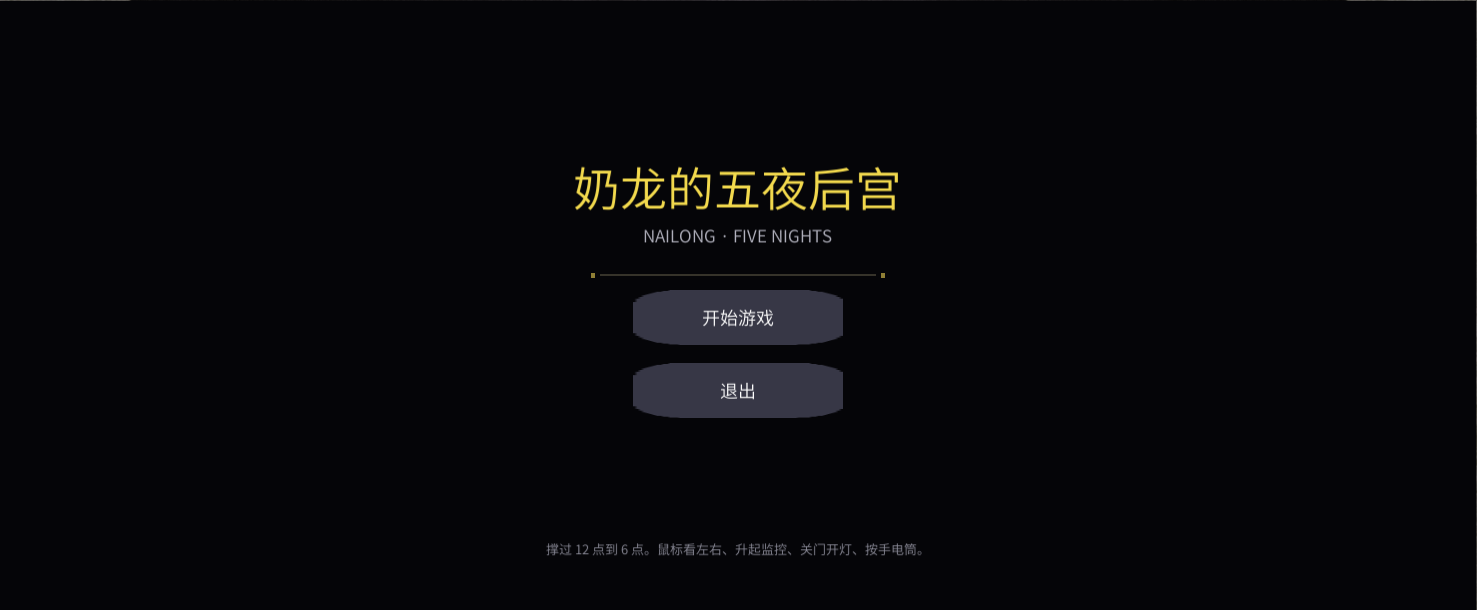
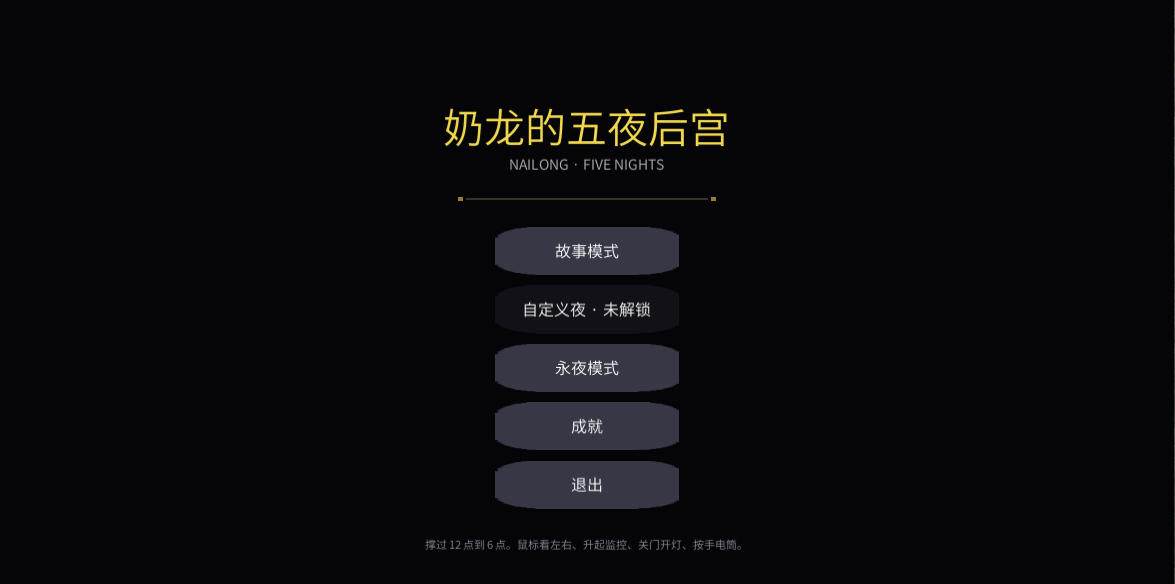
docs: 重写 README —— 故事模式 / 自定义夜 / 永夜 / 成就四模式
- 按当前代码重写：五种标题按钮、四种模式、永夜模式的固定结算与动静抬难度、
  Esc 暂停与存档续跑、9 条成就及其解锁条件、自定义夜 0~20
- 测试数更新到 123（新数目含自定义夜与成就的 12 个用例）
- 补「存档在哪儿」一节（PlayerPrefs 六个键）
- 补两条无头命令：-runTests 与 -playSmoke
- 换掉三张截图：标题页（五按钮）、永夜 HUD、暂停面板

Changed region(s): [[0.3677, 0.1849, 0.6434, 0.9555]]

diff --git a/README.md b/README.md
@@ -1,7 +1,7 @@
 # 奶龙的五夜后宫
 
 **Nailong: Five Nights** —— 一款 FNAF（Five Nights at Freddy's）式的第一人称生存恐怖游戏。
-Unity 2022.3 LTS + C#，只做 Windows。
+Unity 2022.3 LTS + C#，只做 Windows，中文界面。
 
 > A FNAF-style first-person survival horror game built with Unity 2022.3 LTS and C#.
 > Windows only, Chinese UI. You cannot move: you survive by turning your head, watching
@@ -26,6 +26,23 @@ Unity 2022.3 LTS + C#，只做 Windows。
 
 ![办公室](docs/images/office.png)
 
+## 四种模式
+
+标题页五个按钮：**故事模式 / 自定义夜 / 永夜模式 / 成就 / 退出**。
+
+| 模式 | 是什么 | 解锁条件 |
+|---|---|---|
+| **故事模式** | 第 1~5 夜 + 隐藏夜（第 6 夜），一夜 12 点到 6 点，撑过即通关；解锁进度存在 `nailong.unlockedNight` | 一直开着 |
+| **自定义夜** | 照 FNAF 1 的第 7 夜：四只敌人的活动度各自由玩家调 **0 ~ 20**，设置会记住 | 通关**隐藏夜**后解锁 |
+| **永夜模式** | 撑不到天亮，敌人一轮轮来；靠操作换电，时间与动静一起把难度顶上去（细则见下） | 一直开着 |
+| **成就** | 9 条成就的清单，进度存在 `nailong.achv.*` | 一直开着 |
+
+成就清单（`Assets/Scripts/Gameplay/AchievementCatalog.cs`）：
+初来乍到（通关第 1 夜）、渐入佳境（第 3 夜）、五夜老兵（第 5 夜）、隐藏夜征服者、
+省电达人（通关时剩余电量 ≥ 30%）、黑暗中的幸运儿（断电后仍撑到 6 点）、
+闪光灯大师（单夜用手电筒逼退噜噜 3 次）、永夜常客（永夜一局撑过 12 小时）、
+终极挑战（自定义夜四只全 20 通关）。
+
 ## 四个敌人
 
 各管一种手段，边路照 FNAF 1 原版分配：
@@ -43,22 +60,67 @@ Unity 2022.3 LTS + C#，只做 Windows。
 **断电之后它还会来「收电费」** —— 照原版分三段：2 秒纯黑 → 它从左门现形、
 八音盒的托雷多进行曲响起、脸跟着拍子一亮一暗 → 音乐停下、彻底黑掉 → 动手。整段 18 秒。
 
+## 永夜模式
+
+一句需求：撑不到天亮，但别让玩家干等着 —— 补给得跟操作挂钩，难度得一直往上走。
+
+![永夜模式](docs/images/eternal-night.png)
+
+**补给：固定节奏结算**
+
+- 每过一个游戏小时（85 秒）结算一次，不到点不动账
+- 这次补多少 = `(4 + 本小时记点 × 0.75) × 0.9^第几次结算`，夹在 `[1%, 24%]`
+- 记点权重：门 1.0 > 灯 0.9 > 监控 0.7 > 手电筒 0.6；
+  **同一小时里同类操作越点越不值钱**（第 n 次 ÷ `1 + (n-1) × 0.5`）
+- 两层递减叠在一起：这一小时干得多就补得多，但每小时能换到的电越来越少 —— 这一局总有尽头
+
+**难度：时间 + 动静**
+
+- 开局就是**第 3 夜**的强度；每撑 **1.5 小时**加一档；**动静**每满 10 点再加一档（最多加 3 档）
+- 动静来自操作：门 2 / 灯 1.5 / 监控 1 / 手电筒 0.8，停手后每秒散 0.1
+- 爬到第 6 夜还没死？不再换夜，改为给所有敌人**加压**（每档 +25%，上限 +120%）
+
+**暂停与存档**
+
+- 按 **Esc** 开暂停面板：继续游戏 / 保存进度 / 保存并退出 / 放弃本局。
+  暂停靠 `Time.timeScale = 0` + `AudioListener.pause`，时间、电量、敌人、音频一起冻住；
+  **故事模式不给暂停**，免得把时钟停住刷时间
+- 存档一行文本进 `PlayerPrefs` 的 `nailong.eternalSave`：已撑秒数、电量、结算次数、
+  本周期的记点、动静、周期进度、累计补电、操作数、小时数
+- 只存「时间 + 电量 + 账本」，**不存敌人状态** —— 读档后敌人从当前难度的初始状态重新开始
+- 有存档时标题页那颗按钮变成「继续永夜（N 小时）」；死亡自动删档
+
+![暂停](docs/images/pause.png)
+
+## 操作键位
+
+| 操作 | 键 |
+|---|---|
+| 转头 | 鼠标移动（或推到屏幕边缘） |
+| 升起 / 收起监控 | 鼠标移到屏幕底部 / 点 MONITOR 条 |
+| 切机位 | 点右侧小地图的 CAM 框，或数字键 |
+| 关门 / 开灯 | 点墙上的 DOOR / LIGHT |
+| 手电筒 | 按住屏幕底部中间 FLASHLIGHT |
+| 暂停（**仅永夜模式**） | **Esc** |
+
+调试快捷键（官方没有，留着调参用）：**1~9 / 0 / -** 切 11 个机位、**R** 重开一夜、
+**[ / ]** 换夜、**F1** 显示 / 隐藏调试面板。
+
 ## 现在到哪一步了
 
-- [x] 核心逻辑：电量系统、夜晚时钟、永夜模式补电与存档（**111 个 EditMode 单元测试**）
+- [x] 核心逻辑：电量系统、夜晚时钟、永夜模式补电与存档（**123 个 EditMode 单元测试**）
 - [x] 四个敌人的 AI（四条独立状态机 + 逐夜难度表）
 - [x] **设计定稿**（`docs/04-设计决策.md`）
-- [x] 可玩原型：开始界面（故事模式 / 永夜模式）→ 选夜晚 → 办公室 → 结算 / 解锁存档
+- [x] 可玩原型：标题页 → 故事 / 自定义夜 / 永夜 / 成就 → 办公室 → 结算
 - [x] 界面与操作对齐官方 FNAF 1（墙上门灯按钮、电量 + Usage 条、升起式监控、小地图）
 - [x] 断电演出（照原版三段式）
-- [x] 四个敌人立绘、10 张监控画面
+- [x] 四个敌人立绘、10 张监控画面、跳杀视频 4 条（H.264 / 1920×1080）
 - [x] 办公室：程序渲的圆柱全景 + 相机真转
-- [x] 首次开发版构建（0 错误 0 警告）
-- [x] **跳杀视频 4 条**（H.264 / 1920×1080，3.5 倍速只播前半段 ≈ 0.74 秒）
-- [x] **跳杀音效**（原创合成，`tools/gen_jumpscare_sfx.py`）
+- [x] 永夜模式：固定每小时结算、操作换电、动静抬难度、Esc 暂停、存档续跑
+- [x] 自定义夜（全 20 挑战）与 9 条成就
+- [x] 正式打包（Windows Mono，`Builds/`，263 MB / zip 116 MB，见 `docs/09-打包.md`）
 - [ ] 真实音频素材 —— 环境音 / 操作音效仍是开发期占位音
-- [x] **永夜模式**：固定每小时结算一次补给，动作越多补得越多（同类递减、每次递减），但动作会把难度顶上去；支持 Esc 暂停与存档续跑
-- [x] 正式打包（Windows Mono，见 docs/09-打包.md）
+- [ ] IL2CPP 打包（本机只装了 Mono 变体，见 `docs/09-打包.md`）
 
 ## 怎么跑起来
 
@@ -78,14 +140,31 @@ Unity 2022.3 LTS + C#，只做 Windows。
 | 9. 加入运行时 Shader | 把内置 shader 固化进包体（修发行版黑屏） |
 | **10. 打包 Windows 版** | 出 `Builds/Windows/`，可直接发人（见 `docs/09-打包.md`） |
 
-调试快捷键（官方没有，留着调参用）：**1~9 / 0 / -** 切 11 个机位、**R** 重开一夜、
-**[ / ]** 换夜、**F1** 显示 / 隐藏调试面板。
-
 ## 怎么跑测试
 
-电量、时间、敌人 AI 这些核心逻辑是**纯 C# 类，不引用 UnityEngine**，所以能脱离 Unity 测。
+电量、时钟、敌人 AI、永夜记账、自定义夜配置、成就存档这些核心逻辑都是**纯 C# 类**，
+不引用 UnityEngine（少数只借 `PlayerPrefs`），所以能脱离 Unity 测。
 
-**Window → General → Test Runner → EditMode → Run All**
+- **编辑器里**：Window → General → Test Runner → EditMode → Run All
+- **没人看着的时候**（改完代码先跑这个）：
+
+  ```powershell
+  & "F:\Unity\2022.3.62f3c1\Editor\Unity.exe" -batchmode -nographics `
+    -projectPath "F:\nailong f" `
+    -runTests -testPlatform EditMode `
+    -testResults "F:\nailong f\.setup\editmode-result.xml" `
+    -logFile "F:\nailong f\.setup\unity-test.log"
+  ```
+
+- **验证画面**（开窗口跑一遍、自动截图、自动退出）：
+
+  ```powershell
+  & "F:\Unity\2022.3.62f3c1\Editor\Unity.exe" -projectPath "F:\nailong f" `
+    -playSmoke -executeMethod NailongFNAF.EditorTools.PlaySmoke.Run `
+    -logFile "F:\nailong f\.setup\play.log"
+  ```
+
+  截图落在 `.setup/play/`。两条流程的坑都记在 `docs/08-无头验证.md`。
 
 ## 技术要点
 
@@ -94,9 +173,35 @@ Unity 2022.3 LTS + C#，只做 Windows。
   手绘绘本风，但**几何全部由程序算**（见 `docs/06-手绘贴图.md`）
 - **素材管线是脚本**：`tools/` 下是一套 Python 渲染器 / 生成器，
   办公室全景、监控画面、门板、占位音频都是跑脚本产出的，改参数重跑即可
-- **核心逻辑不碰引擎**：电量、时钟、四个敌人的状态机、断电流程都是纯 C#，
-  所以能做出 **72 个不依赖编辑器的单元测试**
+- **核心逻辑不碰引擎**：电量、时钟、四个敌人的状态机、断电流程、永夜记账、
+  自定义夜与成就存档都是纯 C#，所以能做出 **123 个不依赖编辑器的单元测试**
+- **程序集划分**：`Assets/Scripts/` 编成 `NailongFNAF`，
+  `Assets/Tests/EditMode/` 编成 `NailongFNAF.EditModeTests`（引用前者）
 - 中文字体用**思源黑体**（SIL OFL 1.1，可随包分发）
+
+## 目录一览
+
+```
+Assets/
+  Art/          Backgrounds · Characters · Monitoring · UI
+  Audio/        BGM · SFX · Ambient
+  Editor/       编辑器菜单工具（奶龙 → 1/2/3/4/5/9/10）+ 无头冒烟入口
+  Prefabs/  Resources/  Scenes/  Shaders/
+  StreamingAssets/
+    Video/Jumpscares/   ← 4 条跳杀视频（运行时按路径读）
+  Scripts/      ← 程序集 NailongFNAF
+    Core/         GameManager（全局状态 / 暂停 / 存档）、NightClock
+    Gameplay/     PowerSystem、EnemyDirector、四个敌人的 AI、难度表、
+                  EndlessRecharge / EndlessDifficulty / EternalNightSave、
+                  CustomNightConfig、AchievementCatalog / AchievementStore
+    UI/           PrototypeScene（+ Menu 分部类）、OfficeRoom、HoldButton
+    Audio/        AudioManager
+    Diagnostics/  PlaySmokeProbe（只在 -playSmoke 时挂载）
+  Tests/        EditMode/   ← 程序集 NailongFNAF.EditModeTests
+docs/          设计与规格文档（见下表）
+tools/         素材生成 / 渲染脚本（Python）
+Builds/        打包产物（不入库）
+```
 
 ## 文档
 
@@ -105,7 +210,7 @@ Unity 2022.3 LTS + C#，只做 Windows。
 | `docs/01-环境搭建.md` | Unity 版本选择与安装步骤 |
 | `docs/02-开发工具.md` | MCP for Unity 的安装与排障（让 AI 直接驱动编辑器） |
 | `docs/03-素材规格.md` | 美术 / 音频 / 视频要按什么规格交付 |
-| `docs/04-设计决策.md` | **设计定稿** —— 玩法、敌人、流程的最终结论 |
+| `docs/04-设计决策.md` | **设计定稿** —— 玩法、敌人、流程、永夜模式的最终结论 |
 | `docs/05-生图提示词.md` | 生图提示词（办公室 / 监控机位 / 角色） |
 | `docs/06-手绘贴图.md` | 办公室贴图怎么生成的、怎么换 |
 | `docs/07-跳杀视频提示词.md` | 跳杀视频提示词（四条） |
@@ -113,22 +218,18 @@ Unity 2022.3 LTS + C#，只做 Windows。
 | `docs/09-打包.md` | 打包 Windows 版发给别人的流程、体积与注意事项 |
 | `AGENTS.md` | 技术栈、目录规范、命名约定、架构模式（**开工前必读**） |
 
-## 目录一览
+## 存档在哪儿
 
-```
-Assets/
-  Art/          Backgrounds · Characters · Monitoring · UI
-  Audio/        BGM · SFX · Ambient
-  Editor/       编辑器菜单工具（奶龙 → 1/2/3/4/5/9）
-  Prefabs/  Resources/  Scenes/  Shaders/
-  StreamingAssets/
-    Video/Jumpscares/   ← 跳杀视频（运行时按路径读，不打包进资源）
-    Audio/              ← 跳杀音效
-  Scripts/      Core · Gameplay · UI · Audio   ← 程序集 NailongFNAF
-  Tests/        EditMode/                      ← 程序集 NailongFNAF.EditModeTests
-docs/          设计与规格文档
-tools/         素材生成 / 渲染脚本（Python）
-```
+全部走 `PlayerPrefs`（Windows 下在 `%USERPROFILE%\AppData\LocalLow\NailongStudio\奶龙的五夜后宫\`）：
+
+| 键 | 存什么 |
+|---|---|
+| `nailong.unlockedNight` | 故事模式解锁到第几夜（0 起） |
+| `nailong.eternalSave` | 永夜模式进度存档（一行 `v1|...` 文本） |
+| `nailong.endlessBest` | 永夜模式最好成绩（真实秒数） |
+| `nailong.custom.<敌人>` | 自定义夜每只敌人的活动度 |
+| `nailong.achv.<成就id>` | 成就解锁标记 |
+| `nailong.customUnlocked` | 自定义夜是否已解锁 |
 
 ## 素材来源
 
